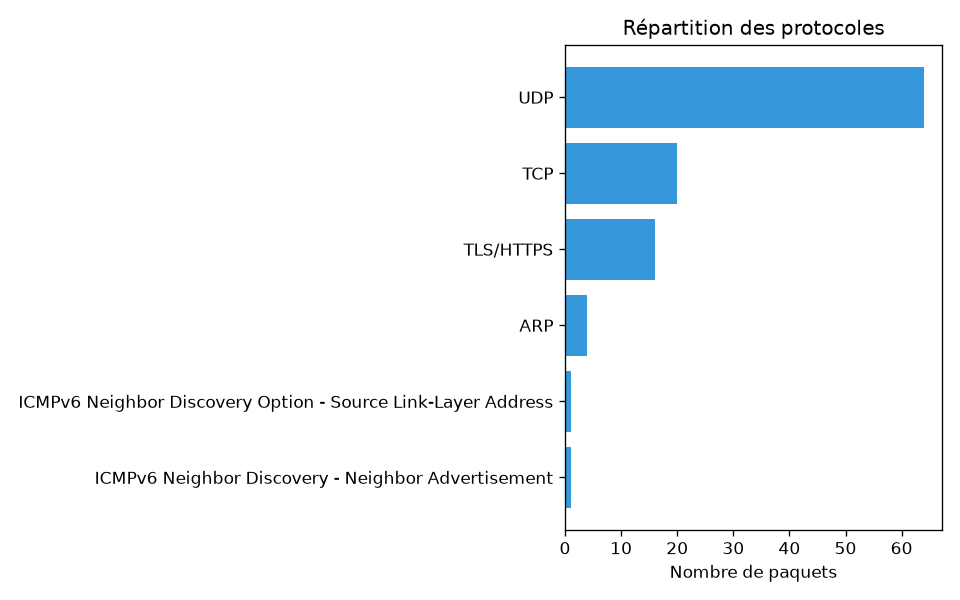
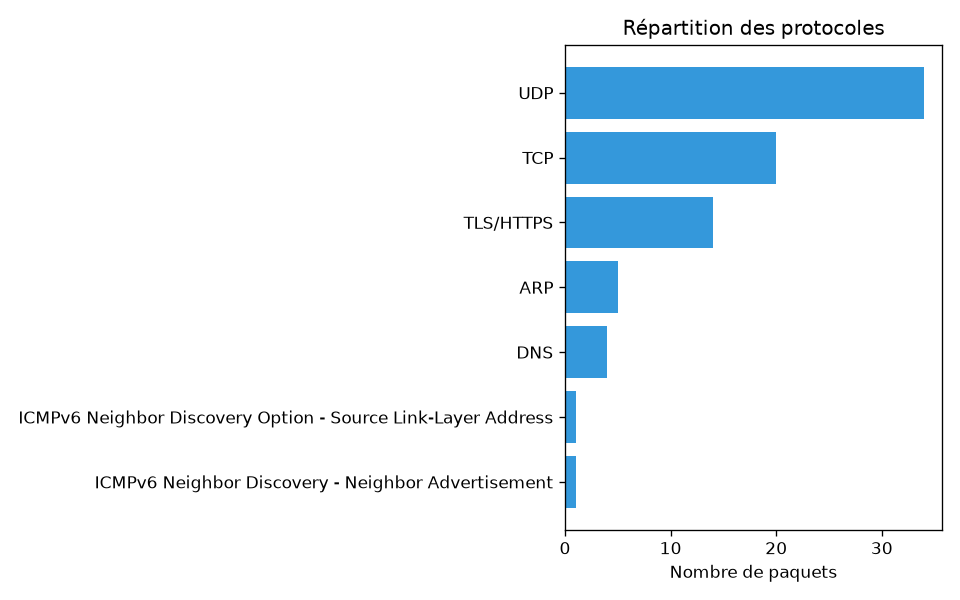
ajout des fonction lire_argument et acrire_json + modif de la fonction main et du constructeur de capture

diff --git a/src/tp1/main.py b/src/tp1/main.py
@@ -1,28 +1,51 @@
+import argparse
+import json
+
+from scapy.utils import rdpcap
+
 from tp1.utils.capture import Capture
 from tp1.utils.config import logger
 from tp1.utils.report import Report
-import sys
 
-def parameter(args) -> list:
-    pcap=""
-    sortie=""
-    for i in range(1,len(args)):
-        if args[i] == "--pcap":
-            pcap = args[i+1]
-        if args[i] == "--out":
-            sortie = args[i+1]
-    return  [pcap,sortie]
 
-def main():
+
+def lire_arguments(argv: list[str] | None = None):
+    parser = argparse.ArgumentParser(description="IDS maison : analyse une capture réseau")
+    parser.add_argument("--pcap", help="fichier PCAP à analyser")
+    parser.add_argument("--iface", default="", help="interface pour une capture en direct")
+    parser.add_argument("--out", default="report.json", help="fichier JSON de sortie")
+    return parser.parse_args(argv)
+
+
+def ecrire_json(chemin: str, capture: Capture):
+    """
+    Écrit le rapport JSON demandé par le TP
+    """
+    rapport = {
+        "protocols": capture.sort_network_protocols(),
+        "attacks": capture.attacks,
+        "flag": capture.flag,
+    }
+    with open(chemin, "w") as fichier:
+        json.dump(rapport, fichier, indent=2)
+    logger.info(f"Rapport JSON écrit dans {chemin}")
+
+
+def main(argv: list[str] | None = None):
     logger.info("Starting TP1")
+    args = lire_arguments(argv)
 
-    capture = Capture()
-    capture.sort_network_protocols()
+    if args.pcap:
+        logger.info(f"Lecture du fichier {args.pcap}")
+        capture = Capture(rdpcap(args.pcap))
+    else:
+        capture = Capture(interface=args.iface)
+
     capture.analyse()
-    summary = capture.get_summary()
+    ecrire_json(args.out, capture)
 
     filename = "report.pdf"
-    report = Report(capture, filename, summary)
+    report = Report(capture, filename, capture.get_summary())
     report.generate("graph")
     report.generate("array")
     report.save(filename)

diff --git a/src/tp1/utils/capture.py b/src/tp1/utils/capture.py
@@ -8,14 +8,17 @@ from tp1.utils.config import logger
 from scapy.all import sniff
 
 class Capture:
-    def __init__(self,pkts: list | None = None) -> None:
-        if pkts is None:
-            self.interface = choose_interface()
-            self.pkts = self.capture_traffic()
-        else:
+    def __init__(self,pkts: PacketList | None = None,interface: str = "") -> None:
+        if pkts is not None:
             self.interface = ""
             self.pkts = pkts
+        else:
+            if interface == "":
+                interface = choose_interface()
+            self.interface = interface
+            self.pkts = self.capture_traffic()
         self.attacks = []
+        self.flag = ""
         self.summary = self._gen_summary()
 
     def capture_traffic(self) -> PacketList:
